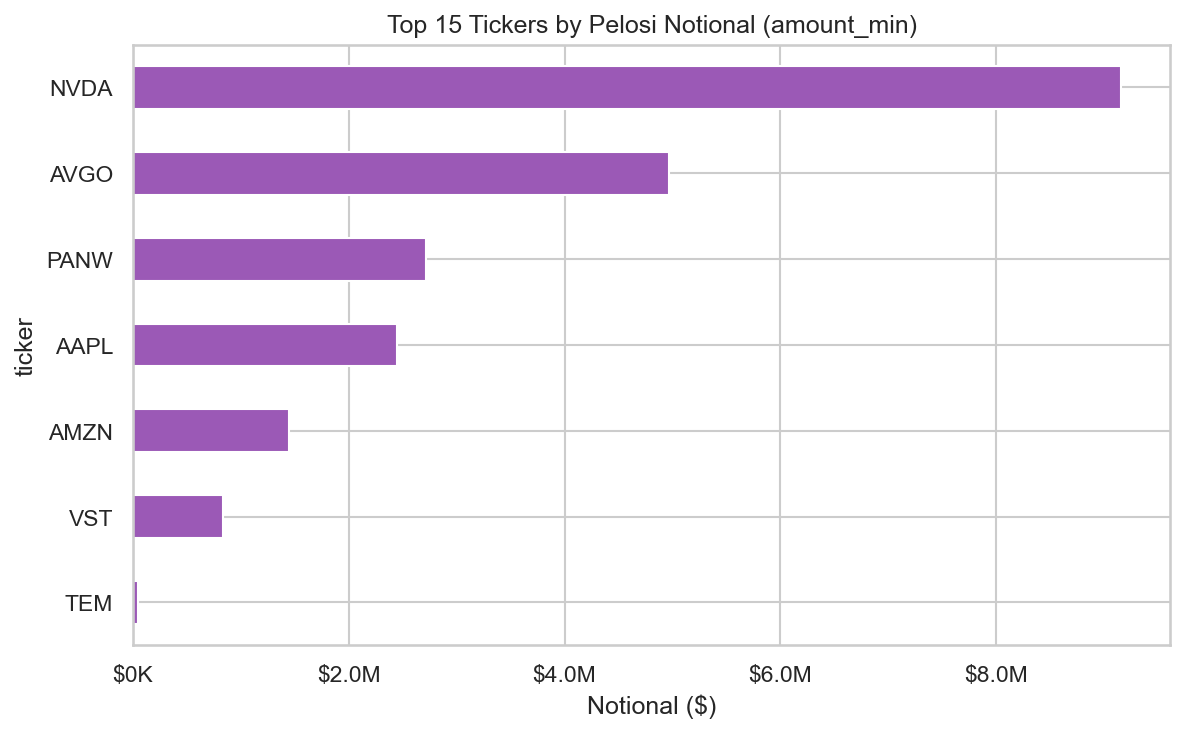
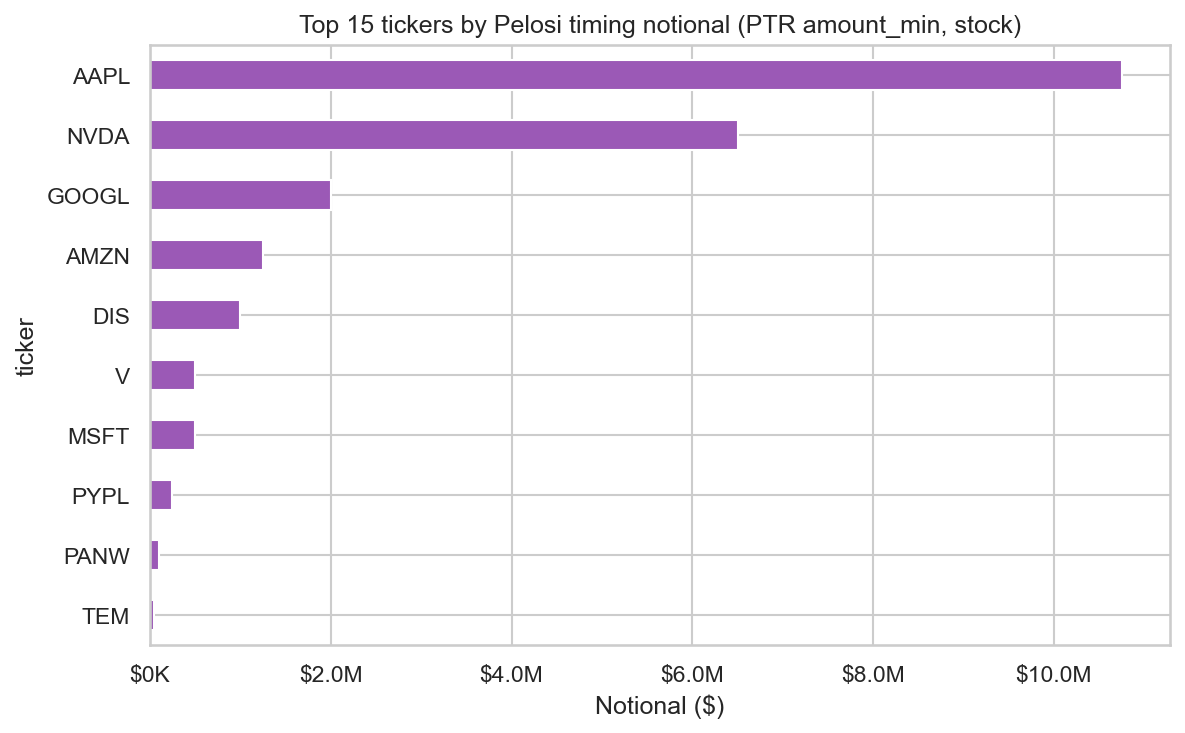
Fix top-ticker chart/table mismatch; separate option ranking chart.
Option chart generation no longer overwrites 03_top_tickers; clarify stock table vs chart in report.

diff --git a/src/visualizations.py b/src/visualizations.py
@@ -229,6 +229,8 @@ def plot_top_tickers(
     out_dir: Path,
     n: int = 15,
     returns_df: pd.DataFrame | None = None,
+    prefix: str = "03_top_tickers",
+    title: str | None = None,
 ) -> Path:
     if returns_df is not None and "notional" in returns_df.columns and "ticker" in returns_df.columns:
         dedupe_col = "trade_id" if "trade_id" in returns_df.columns else "ticker"
@@ -238,20 +240,20 @@ def plot_top_tickers(
             .sum()
             .nlargest(n)
         )
-        title = f"Top {n} Tickers by Pelosi Notional (amount_min)"
+        chart_title = title or f"Top {n} tickers by Pelosi timing notional (PTR amount_min, stock)"
         xlabel = "Notional ($)"
     else:
         df = trades[trades["ticker"].notna()].copy()
         df["notional"] = df.apply(trade_notional, axis=1)
         top = df.groupby("ticker")["notional"].sum().nlargest(n)
-        title = f"Top {n} Tickers by Pelosi Notional (amount_min)"
+        chart_title = title or f"Top {n} tickers by raw PTR amount_min (all parsed stock rows)"
         xlabel = "Notional ($)"
     fig, ax = plt.subplots(figsize=(8, 5))
     top.sort_values().plot(kind="barh", ax=ax, color="#9b59b6")
-    ax.set_title(title)
+    ax.set_title(_mpl_label(chart_title))
     ax.set_xlabel(xlabel)
     ax.xaxis.set_major_formatter(plt.FuncFormatter(lambda x, _: f"${x/1e6:.1f}M" if x >= 1e6 else f"${x/1e3:.0f}K"))
-    return _save(fig, out_dir, "03_top_tickers")
+    return _save(fig, out_dir, prefix)
 
 
 def _buy_sell_bar_frame(
@@ -1195,7 +1197,13 @@ def generate_option_charts(
     chart_opts = options.copy()
     chart_opts.loc[chart_opts["action"] == "exercise", "action"] = "purchase"
     paths: list[Path] = [
-        plot_top_tickers(chart_opts, out_dir, returns_df=timing_df),
+        plot_top_tickers(
+            chart_opts,
+            out_dir,
+            returns_df=timing_df,
+            prefix="opt_03_top_tickers",
+            title="Top tickers — options timing notional (100 sh/contract × spot)",
+        ),
         plot_disclosure_timeline(chart_opts, out_dir, pelosi_df=timing_df),
     ]
     if matched_lots is not None and ticker_summary is not None and not matched_lots.empty:

diff --git a/scripts/generate_report.py b/scripts/generate_report.py
@@ -207,7 +207,8 @@ def _filing_content_label(n_equity_etf: int, n_bond_other: int, file_ok: bool) -
 _FIGURE_CAPTIONS: dict[str, str] = {
     "01_monthly_volume": "交易时间线（按日/周）：名义金额为主；柱顶标注 Top3 公司 buy/sell 名义",
     "02_reveal_lag": "披露滞后（交易日 → 披露日）",
-    "03_top_tickers": "Pelosi 名义金额 Top Ticker（amount_min 合计）",
+    "03_top_tickers": "股票 Top Ticker：pelosi_timing 名义合计（与下表一致）",
+    "opt_03_top_tickers": "期权 Top Ticker：options timing 经济名义合计",
     "04_buy_sell": "股票/期权 买·卖 四项 — 笔数与经济名义（交易日标的收盘价×张数×100）",
     "14_combined_timing_returns": "股票+期权合并：名义加权 horizon 收益（期权按 100 股/张）",
     "14_combined_cumulative_pnl": "股票+期权合并：累计 PnL（合计 vs 股票 vs 期权）",
@@ -316,6 +317,9 @@ def _options_analysis_section(summary: dict, embedded: set[str], fig: callable) 
         f"- FIFO 配对: **{hs.get('n_matched_pairs', 0)}** 对，中位持仓 **{hs.get('median_holding_days', 0):.0f}** 天",
         "- 明细: `reports/options_raw.csv`, `reports/options_matched_lots.csv`",
         "",
+    ]
+    lines += fig("opt_03_top_tickers")
+    lines += [
         "### O1. 期权 timing（锚点 = 交易发生日，标的价）",
         "",
         "#### O1a. 合计（买 + 卖 + 行权；卖/行权按 sign=−1 或 +1 见上）",
@@ -983,7 +987,10 @@ def _md_report(
     lines += fig("14_follow_buy_vs_sell")
     lines += fig("13_follow_cumulative_pnl")
     lines += [
-        "## Top Tickers（按 Pelosi 名义金额 `amount_min` 合计）",
+        "## 股票 Top Tickers（`pelosi_timing` 名义合计）",
+        "",
+        "与上文 **§1 Pelosi timing** 同一批 **23** 笔有金额股票；`total_notional` = 各笔 `notional`（PTR `amount_min`）按 ticker 求和。",
+        "`avg_post_*` 为旧版披露日后收益（附录已移除），**≠** 主表 horizon NW。",
         "",
         "```",
         by_ticker.head(15).to_string(index=False),

diff --git a/reports/FINAL_REPORT.md b/reports/FINAL_REPORT.md
@@ -1,6 +1,6 @@
 # Pelosi 股票/ETF 交易分析报告
 
-> 生成时间: 2026-06-02 21:50 · House STOCK Act PTR · 2023-03-09 起
+> 生成时间: 2026-06-02 22:05 · House STOCK Act PTR · 2023-03-09 起
 
 ## 数据范围
 
@@ -401,7 +401,10 @@ Combined book: stock notional = PTR amount_min; option notional = n_contracts ×
 <figcaption>Follow 披露日：累计 PnL</figcaption>
 </figure>
 
-## Top Tickers（按 Pelosi 名义金额 `amount_min` 合计）
+## 股票 Top Tickers（`pelosi_timing` 名义合计）
+
+与上文 **§1 Pelosi timing** 同一批 **23** 笔有金额股票；`total_notional` = 各笔 `notional`（PTR `amount_min`）按 ticker 求和。
+`avg_post_*` 为旧版披露日后收益（附录已移除），**≠** 主表 horizon NW。
 
 ```
 ticker  trades  buys  sales  total_notional  avg_post_5d  avg_post_1d
@@ -419,8 +422,8 @@ ticker  trades  buys  sales  total_notional  avg_post_5d  avg_post_1d
 
 
 <figure class="report-fig">
-<img src="figures/03_top_tickers.png" alt="Pelosi 名义金额 Top Ticker（amount_min 合计）">
-<figcaption>Pelosi 名义金额 Top Ticker（amount_min 合计）</figcaption>
+<img src="figures/03_top_tickers.png" alt="股票 Top Ticker：pelosi_timing 名义合计（与下表一致）">
+<figcaption>股票 Top Ticker：pelosi_timing 名义合计（与下表一致）</figcaption>
 </figure>
 
 